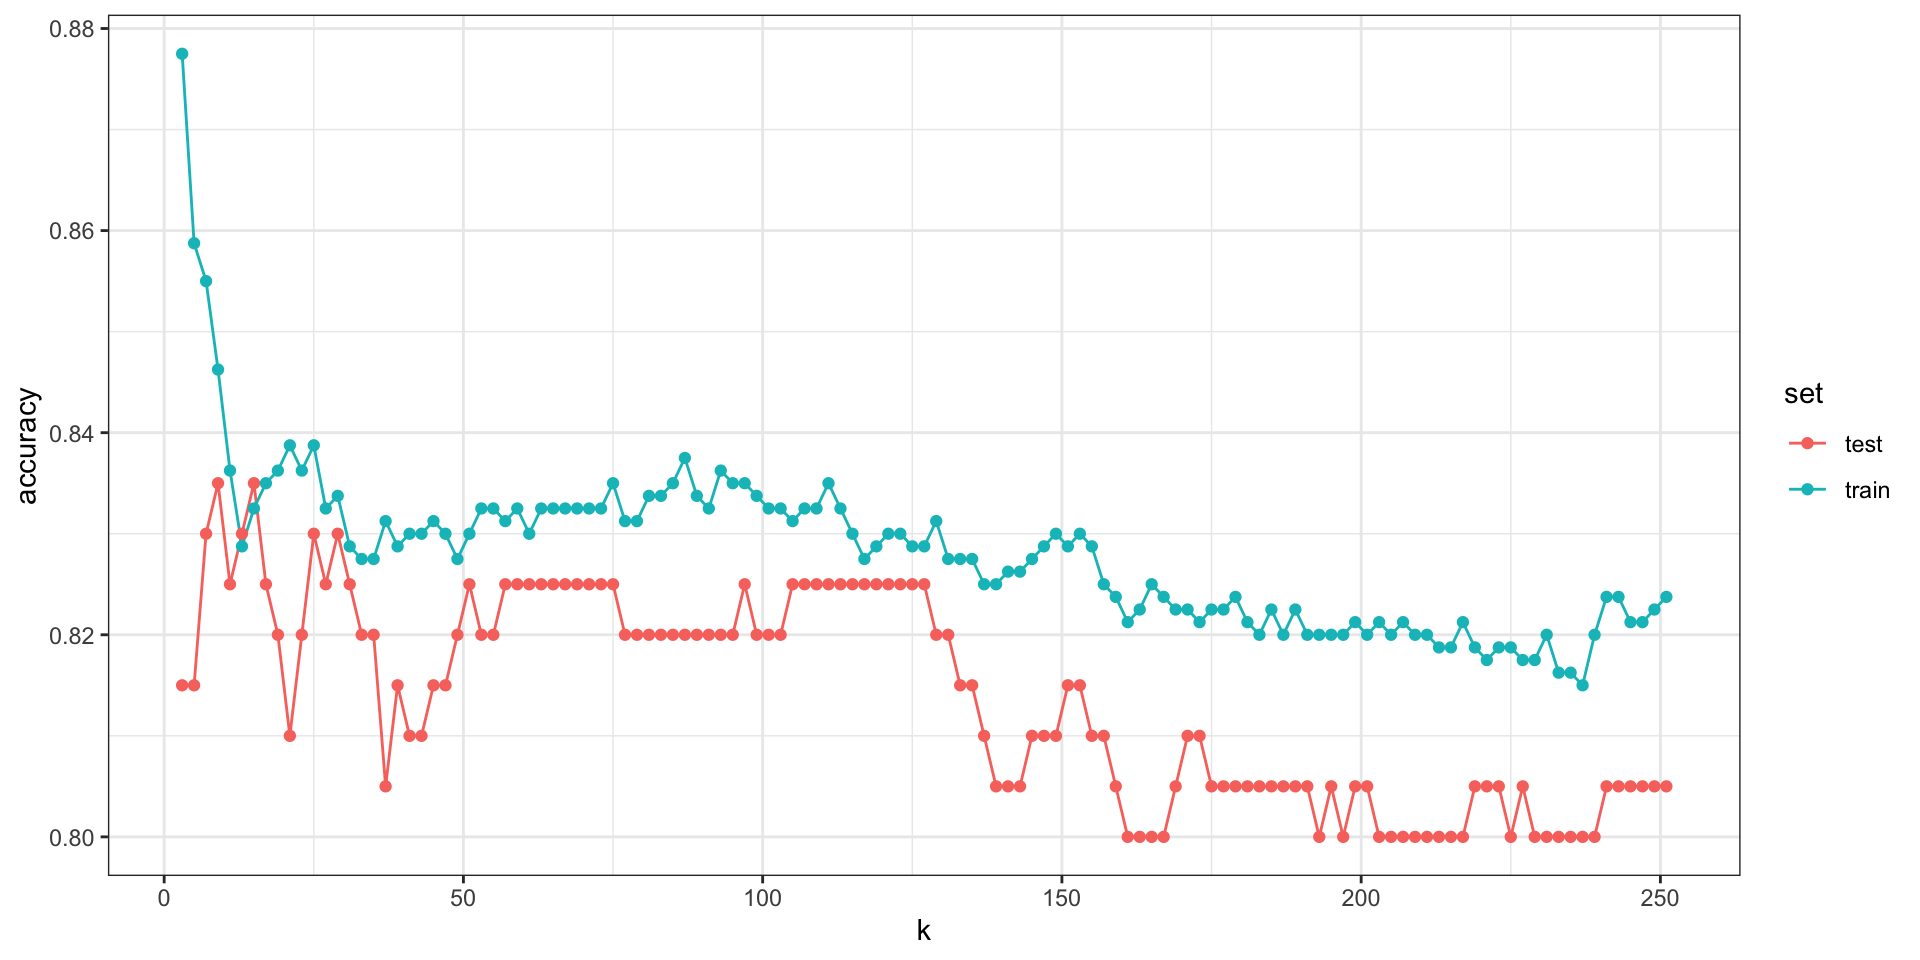
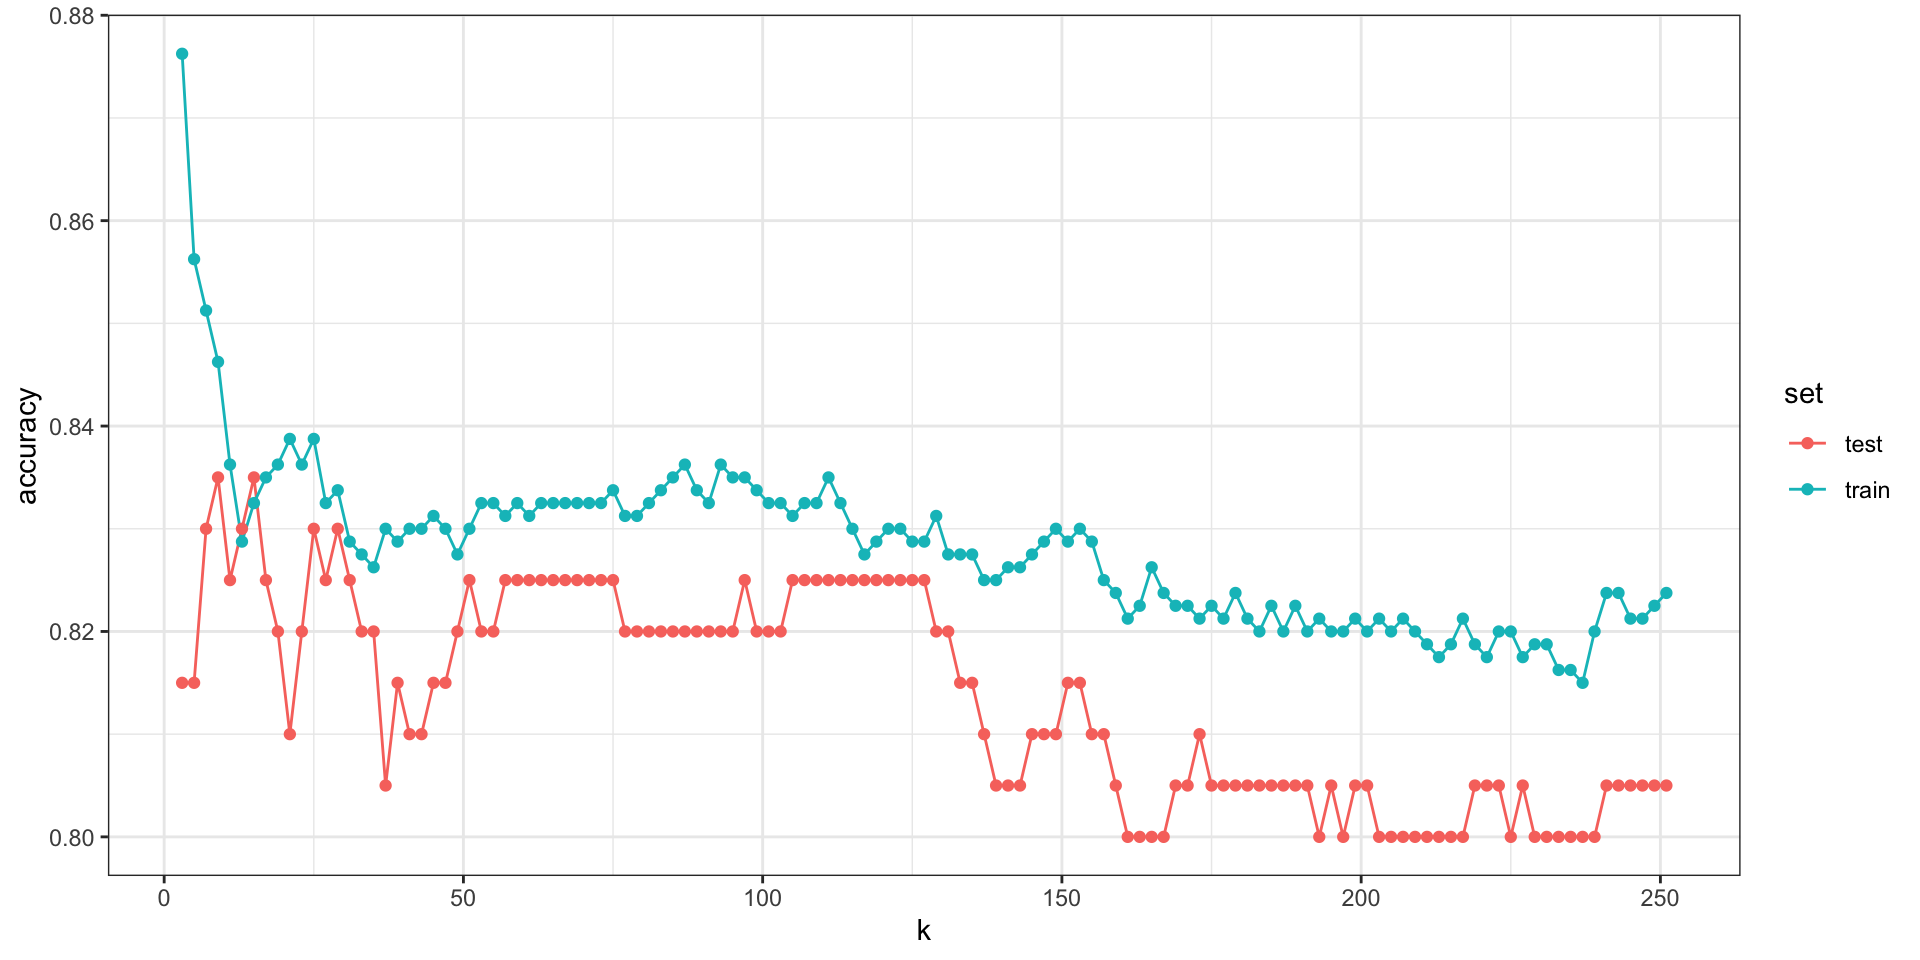
ml-slides

diff --git a/docs/slides.html b/docs/slides.html
@@ -640,6 +640,105 @@ Date
 <span class="listing-date">Tue, Mar 18</span>
 </td>
 </tr>
+<tr data-index="36" data-listing-date-sort="1742443200000" data-listing-file-modified-sort="1742424981656" data-listing-date-modified-sort="NaN" data-listing-reading-time-sort="5" data-listing-word-count-sort="860" data-listing-title-sort="Introduction" data-listing-filename-sort="36-intro-ml.qmd">
+<td>
+<span class="listing-keywords">Machine Learning</span>
+</td>
+<td>
+<a href="./slides/ml/36-intro-ml.html" class="title listing-title">Introduction</a>
+</td>
+<td>
+<span class="listing-date">Thu, Mar 20</span>
+</td>
+</tr>
+<tr data-index="37" data-listing-date-sort="1742443200000" data-listing-file-modified-sort="1742424997917" data-listing-date-modified-sort="NaN" data-listing-reading-time-sort="12" data-listing-word-count-sort="2213" data-listing-title-sort="Evaluation Metrics" data-listing-filename-sort="37-evaluation-metrics.qmd">
+<td>
+<span class="listing-keywords">Machine Learning</span>
+</td>
+<td>
+<a href="./slides/ml/37-evaluation-metrics.html" class="title listing-title">Evaluation Metrics</a>
+</td>
+<td>
+<span class="listing-date">Thu, Mar 20</span>
+</td>
+</tr>
+<tr data-index="38" data-listing-date-sort="1742443200000" data-listing-file-modified-sort="1742425008915" data-listing-date-modified-sort="NaN" data-listing-reading-time-sort="3" data-listing-word-count-sort="510" data-listing-title-sort="Conditionals" data-listing-filename-sort="38-conditionals.qmd">
+<td>
+<span class="listing-keywords">Machine Learning</span>
+</td>
+<td>
+<a href="./slides/ml/38-conditionals.html" class="title listing-title">Conditionals</a>
+</td>
+<td>
+<span class="listing-date">Thu, Mar 20</span>
+</td>
+</tr>
+<tr data-index="39" data-listing-date-sort="1742443200000" data-listing-file-modified-sort="1742425013818" data-listing-date-modified-sort="NaN" data-listing-reading-time-sort="22" data-listing-word-count-sort="4324" data-listing-title-sort="Smoothing" data-listing-filename-sort="39-smoothing.qmd">
+<td>
+<span class="listing-keywords">Machine Learning</span>
+</td>
+<td>
+<a href="./slides/ml/39-smoothing.html" class="title listing-title">Smoothing</a>
+</td>
+<td>
+<span class="listing-date">Thu, Mar 20</span>
+</td>
+</tr>
+<tr data-index="40" data-listing-date-sort="1742875200000" data-listing-file-modified-sort="1742425025137" data-listing-date-modified-sort="NaN" data-listing-reading-time-sort="6" data-listing-word-count-sort="1136" data-listing-title-sort="k-nearest neighbors (knn)" data-listing-filename-sort="40-knn.qmd">
+<td>
+<span class="listing-keywords">Machine Learning</span>
+</td>
+<td>
+<a href="./slides/ml/40-knn.html" class="title listing-title">k-nearest neighbors (knn)</a>
+</td>
+<td>
+<span class="listing-date">Tue, Mar 25</span>
+</td>
+</tr>
+<tr data-index="41" data-listing-date-sort="1742875200000" data-listing-file-modified-sort="1742425030387" data-listing-date-modified-sort="NaN" data-listing-reading-time-sort="6" data-listing-word-count-sort="1116" data-listing-title-sort="Resampling Methods" data-listing-filename-sort="41-resampling-methods.qmd">
+<td>
+<span class="listing-keywords">Machine Learning</span>
+</td>
+<td>
+<a href="./slides/ml/41-resampling-methods.html" class="title listing-title">Resampling Methods</a>
+</td>
+<td>
+<span class="listing-date">Tue, Mar 25</span>
+</td>
+</tr>
+<tr data-index="42" data-listing-date-sort="1742875200000" data-listing-file-modified-sort="1742425050395" data-listing-date-modified-sort="NaN" data-listing-reading-time-sort="9" data-listing-word-count-sort="1635" data-listing-title-sort="The caret package" data-listing-filename-sort="42-caret.qmd">
+<td>
+<span class="listing-keywords">Machine Learning</span>
+</td>
+<td>
+<a href="./slides/ml/42-caret.html" class="title listing-title">The caret package</a>
+</td>
+<td>
+<span class="listing-date">Tue, Mar 25</span>
+</td>
+</tr>
+<tr data-index="43" data-listing-date-sort="1743048000000" data-listing-file-modified-sort="1742425066719" data-listing-date-modified-sort="NaN" data-listing-reading-time-sort="14" data-listing-word-count-sort="2692" data-listing-title-sort="Algorithms" data-listing-filename-sort="43-algorithms.qmd">
+<td>
+<span class="listing-keywords">Machine Learning</span>
+</td>
+<td>
+<a href="./slides/ml/43-algorithms.html" class="title listing-title">Algorithms</a>
+</td>
+<td>
+<span class="listing-date">Thu, Mar 27</span>
+</td>
+</tr>
+<tr data-index="44" data-listing-date-sort="1743048000000" data-listing-file-modified-sort="1742425316463" data-listing-date-modified-sort="NaN" data-listing-reading-time-sort="10" data-listing-word-count-sort="1838" data-listing-title-sort="ML In Practice" data-listing-filename-sort="44-ml-in-practice.qmd">
+<td>
+<span class="listing-keywords">Machine Learning</span>
+</td>
+<td>
+<a href="./slides/ml/44-ml-in-practice.html" class="title listing-title">ML In Practice</a>
+</td>
+<td>
+<span class="listing-date">Thu, Mar 27</span>
+</td>
+</tr>
 </tbody>
 </table>
 <div class="listing-no-matching d-none">
@@ -650,7 +749,6 @@ No matching items
 </nav>
 </div>
 <!-- 
-      - slides/ml/*.qmd
       - slides/other-topics/*.qmd -->
 
 

diff --git a/docs/index.html b/docs/index.html
@@ -292,14 +292,24 @@ ul.task-list li input[type="checkbox"] {
 <td style="text-align: left;"><a href="./slides/highdim/34-distance.html">Distance</a>, <a href="./slides/highdim/35-dimension-reduction.html">Dimension reduction</a></td>
 <td style="text-align: left;"><a href="https://rafalab.dfci.harvard.edu/dsbook-part-2/highdim/dimension-reduction.html">Dimension Reduction</a></td>
 </tr>
+<tr class="even">
+<td style="text-align: left;">Mar 20</td>
+<td style="text-align: left;">Machine Learning</td>
+<td style="text-align: left;"><a href="./slides/ml/36-intro-ml.html">Intro</a>, <a href="./slides/ml/37-evaluation-metrics.html">Metrics</a>, <a href="./slides/ml/38-conditionals.html">Conditionals</a>, <a href="./slides/ml/39-smoothing.html">Smoothing</a></td>
+<td style="text-align: left;"><a href="https://rafalab.dfci.harvard.edu/dsbook-part-2/ml/notation-and-terminology.html">Notation and terminology</a>, <a href="https://rafalab.dfci.harvard.edu/dsbook-part-2/ml/evaluation-metrics.html">Evaluation Metrics</a>, <a href="https://rafalab.dfci.harvard.edu/dsbook-part-2/ml/conditionals.html">conditional probabilities</a>, <a href="https://rafalab.dfci.harvard.edu/dsbook-part-2/ml/smoothing.html">smoothing</a></td>
+</tr>
+<tr class="odd">
+<td style="text-align: left;">Mar 25, Mar 27</td>
+<td style="text-align: left;">Machine Learning</td>
+<td style="text-align: left;"><a href="./slides/ml/40-knn.html">kNN</a>, <a href="./slides/ml/41-resampling-methods.html">Resampling methods</a>, <a href="./slides/ml/42-caret.html">caret package</a>, <a href="./slides/ml/43-algorithms.html">Algorithms</a>, <a href="./slides/ml/44-ml-in-practice.html">ML in practice</a></td>
+<td style="text-align: left;"><a href="https://rafalab.dfci.harvard.edu/dsbook-part-2/ml/resampling-methods.html">Resampling methods</a>, <a href="https://rafalab.dfci.harvard.edu/dsbook-part-2/ml/algorithms.html">ML algorithms</a>, <a href="https://rafalab.dfci.harvard.edu/dsbook-part-2/ml/ml-in-practice.html">ML in practice</a></td>
+</tr>
 </tbody>
 </table>
 <!--
 
 
 | Nov 25 | Midterm 2 | | Midterm 2: cover material from Sep 04-Nov 22|
-
-| Dec 04 | Machine Learning | [Intro](slides/ml/36-intro-ml.qmd), [Metrics](slides/ml/37-evaluation-metrics.qmd), [Conditionals](slides/ml/38-conditionals.qmd), [Smoothing](slides/ml/39-smoothing.qmd)|[Notation and terminology](https://rafalab.dfci.harvard.edu/dsbook-part-2/ml/notation-and-terminology.html), [Evaluation Metrics](https://rafalab.dfci.harvard.edu/dsbook-part-2/ml/evaluation-metrics.html), [conditional probabilities](https://rafalab.dfci.harvard.edu/dsbook-part-2/ml/conditionals.html), [smoothing](https://rafalab.dfci.harvard.edu/dsbook-part-2/ml/smoothing.html) |
 |  Dec 09, Dec 11 | Machine Learning | [kNN](slides/ml/40-knn.qmd), [Resampling methods](slides/ml/41-resampling-methods.qmd), [caret package](slides/ml/42-caret.qmd), [Algorithms](slides/ml/43-algorithms.qmd), [ML in practice](slides/ml/44-ml-in-practice.qmd)|[Resampling methods](https://rafalab.dfci.harvard.edu/dsbook-part-2/ml/resampling-methods.html), [ML algorithms](https://rafalab.dfci.harvard.edu/dsbook-part-2/ml/algorithms.html), [ML in practice](https://rafalab.dfci.harvard.edu/dsbook-part-2/ml/ml-in-practice.html) |
 | Dec 16, Dec 18 | Other topics  | [Association is not causation](slides/other-topics/45-association-not-causation.qmd), [Shiny](slides/other-topics/46-shiny.qmd), [Shiny example code](https://github.com/datasciencelabs/2024/tree/main/shiny)| [Association is not causation](https://rafalab.dfci.harvard.edu/dsbook-part-2/linear-models/association-not-causation.html) |
 -->
@@ -393,8 +403,6 @@ ul.task-list li input[type="checkbox"] {
 </tr>
 </tbody>
 </table>
-<!--| Nikhil Vytla   | Wed      2:00-3:00PM     | Kresge 201         |
-| Yuan Wang | Fri    1:00-2:00PM     | [Zoom](https://harvard.zoom.us/j/98901120095?pwd=CrhPTA0Nco2rY6ggzYIfq6kQmP4VZn.1) |-->
 </section>
 <section id="acknowledgments" class="level2">
 <h2 class="anchored" data-anchor-id="acknowledgments">Acknowledgments</h2>

diff --git a/docs/slides/ml/40-knn.html b/docs/slides/ml/40-knn.html
@@ -9,7 +9,7 @@
 <link href="../../site_libs/quarto-html/quarto-syntax-highlighting-dark-8ea72dc5fed832574809a9c94082fbbb.css" rel="stylesheet" id="quarto-text-highlighting-styles"><meta charset="utf-8">
   <meta name="generator" content="quarto-1.6.40">
 
-  <meta name="dcterms.date" content="2024-12-10">
+  <meta name="dcterms.date" content="2025-03-25">
   <meta name="keywords" content="Machine Learning">
   <title>BIOSTAT 620: Introduction to Health Data Science – k-nearest neighbors (knn)</title>
   <meta name="apple-mobile-web-app-capable" content="yes">
@@ -198,7 +198,7 @@
 <div class="quarto-title-authors">
 </div>
 
-  <p class="date">2024-12-10</p>
+  <p class="date">2025-03-25</p>
 </section>
 <section id="motivation" class="slide level2">
 <h2>Motivation</h2>
@@ -324,7 +324,7 @@ p(\mathbf{x}) = \mbox{Pr}(Y = 1 \mid X_1 = x_1 , X_2 = x_2).
 <span id="cb11-2"><a></a>y_hat_knn_1 <span class="ot">&lt;-</span> <span class="fu">predict</span>(knn_fit_1, mnist_27<span class="sc">$</span>train, <span class="at">type =</span> <span class="st">"class"</span>) </span>
 <span id="cb11-3"><a></a><span class="fu">confusionMatrix</span>(y_hat_knn_1, mnist_27<span class="sc">$</span>train<span class="sc">$</span>y)<span class="sc">$</span>overall[[<span class="st">"Accuracy"</span>]] </span></code><button title="Copy to Clipboard" class="code-copy-button"><i class="bi"></i></button></pre></div>
 <div class="cell-output cell-output-stdout">
-<pre><code>[1] 0.995</code></pre>
+<pre><code>[1] 0.993</code></pre>
 </div>
 </div>
 <p>to this:</p>

diff --git a/docs/slides/ml/38-conditionals.html b/docs/slides/ml/38-conditionals.html
@@ -9,8 +9,8 @@
 <link href="../../site_libs/quarto-html/quarto-syntax-highlighting-dark-8ea72dc5fed832574809a9c94082fbbb.css" rel="stylesheet" id="quarto-text-highlighting-styles"><meta charset="utf-8">
   <meta name="generator" content="quarto-1.6.40">
 
-  <meta name="author" content="Rafael A. Irizarry">
-  <meta name="dcterms.date" content="2024-12-04">
+  <meta name="author" content="Dylan Cable">
+  <meta name="dcterms.date" content="2025-03-20">
   <meta name="keywords" content="Machine Learning">
   <title>BIOSTAT 620: Introduction to Health Data Science – Conditionals</title>
   <meta name="apple-mobile-web-app-capable" content="yes">
@@ -134,12 +134,12 @@
 <div class="quarto-title-authors">
 <div class="quarto-title-author">
 <div class="quarto-title-author-name">
-Rafael A. Irizarry 
+Dylan Cable 
 </div>
 </div>
 </div>
 
-  <p class="date">2024-12-04</p>
+  <p class="date">2025-03-20</p>
 </section>
 <section id="conditional-probabilities-and-expectations" class="slide level2">
 <h2>Conditional probabilities and expectations</h2>

diff --git a/docs/slides/ml/44-ml-in-practice.html b/docs/slides/ml/44-ml-in-practice.html
@@ -9,8 +9,8 @@
 <link href="../../site_libs/quarto-html/quarto-syntax-highlighting-dark-8ea72dc5fed832574809a9c94082fbbb.css" rel="stylesheet" id="quarto-text-highlighting-styles"><meta charset="utf-8">
   <meta name="generator" content="quarto-1.6.40">
 
-  <meta name="author" content="Rafael A. Irizarry">
-  <meta name="dcterms.date" content="2024-12-09">
+  <meta name="author" content="Dylan Cable">
+  <meta name="dcterms.date" content="2025-03-27">
   <meta name="keywords" content="Machine Learning">
   <title>BIOSTAT 620: Introduction to Health Data Science – ML In Practice</title>
   <meta name="apple-mobile-web-app-capable" content="yes">
@@ -199,12 +199,12 @@
 <div class="quarto-title-authors">
 <div class="quarto-title-author">
 <div class="quarto-title-author-name">
-Rafael A. Irizarry 
+Dylan Cable 
 </div>
 </div>
 </div>
 
-  <p class="date">2024-12-09</p>
+  <p class="date">2025-03-27</p>
 </section>
 <section id="machine-learning-in-practice" class="slide level2">
 <h2>Machine learning in practice</h2>

diff --git a/docs/slides/ml/36-intro-ml.html b/docs/slides/ml/36-intro-ml.html
@@ -9,8 +9,8 @@
 <link href="../../site_libs/quarto-html/quarto-syntax-highlighting-dark-8ea72dc5fed832574809a9c94082fbbb.css" rel="stylesheet" id="quarto-text-highlighting-styles"><meta charset="utf-8">
   <meta name="generator" content="quarto-1.6.40">
 
-  <meta name="author" content="Rafael A. Irizarry">
-  <meta name="dcterms.date" content="2024-12-02">
+  <meta name="author" content="Dylan Cable">
+  <meta name="dcterms.date" content="2025-03-20">
   <meta name="keywords" content="Machine Learning">
   <title>BIOSTAT 620: Introduction to Health Data Science – Introduction</title>
   <meta name="apple-mobile-web-app-capable" content="yes">
@@ -134,12 +134,12 @@
 <div class="quarto-title-authors">
 <div class="quarto-title-author">
 <div class="quarto-title-author-name">
-Rafael A. Irizarry 
+Dylan Cable 
 </div>
 </div>
 </div>
 
-  <p class="date">2024-12-02</p>
+  <p class="date">2025-03-20</p>
 </section>
 <section id="machine-learning" class="slide level2">
 <h2>Machine Learning</h2>

diff --git a/docs/slides/ml/41-resampling-methods.html b/docs/slides/ml/41-resampling-methods.html
@@ -9,7 +9,7 @@
 <link href="../../site_libs/quarto-html/quarto-syntax-highlighting-dark-8ea72dc5fed832574809a9c94082fbbb.css" rel="stylesheet" id="quarto-text-highlighting-styles"><meta charset="utf-8">
   <meta name="generator" content="quarto-1.6.40">
 
-  <meta name="dcterms.date" content="2024-12-09">
+  <meta name="dcterms.date" content="2025-03-25">
   <meta name="keywords" content="Machine Learning">
   <title>BIOSTAT 620: Introduction to Health Data Science – Resampling Methods</title>
   <meta name="apple-mobile-web-app-capable" content="yes">
@@ -133,7 +133,7 @@
 <div class="quarto-title-authors">
 </div>
 
-  <p class="date">2024-12-09</p>
+  <p class="date">2025-03-25</p>
 </section>
 <section id="resampling-methods-math" class="slide level2">
 <h2>Resampling methods math</h2>

diff --git a/docs/slides/ml/37-evaluation-metrics.html b/docs/slides/ml/37-evaluation-metrics.html
@@ -9,7 +9,7 @@
 <link href="../../site_libs/quarto-html/quarto-syntax-highlighting-dark-8ea72dc5fed832574809a9c94082fbbb.css" rel="stylesheet" id="quarto-text-highlighting-styles"><meta charset="utf-8">
   <meta name="generator" content="quarto-1.6.40">
 
-  <meta name="dcterms.date" content="2024-12-04">
+  <meta name="dcterms.date" content="2025-03-20">
   <meta name="keywords" content="Machine Learning">
   <title>BIOSTAT 620: Introduction to Health Data Science – Evaluation Metrics</title>
   <meta name="apple-mobile-web-app-capable" content="yes">
@@ -200,7 +200,7 @@
 <div class="quarto-title-authors">
 </div>
 
-  <p class="date">2024-12-04</p>
+  <p class="date">2025-03-20</p>
 </section>
 <section id="evaluation-metrics" class="slide level2">
 <h2>Evaluation metrics</h2>

diff --git a/docs/slides/ml/43-algorithms.html b/docs/slides/ml/43-algorithms.html
@@ -9,7 +9,7 @@
 <link href="../../site_libs/quarto-html/quarto-syntax-highlighting-dark-8ea72dc5fed832574809a9c94082fbbb.css" rel="stylesheet" id="quarto-text-highlighting-styles"><meta charset="utf-8">
   <meta name="generator" content="quarto-1.6.40">
 
-  <meta name="dcterms.date" content="2024-12-11">
+  <meta name="dcterms.date" content="2025-03-27">
   <meta name="keywords" content="Machine Learning">
   <title>BIOSTAT 620: Introduction to Health Data Science – Algorithms</title>
   <meta name="apple-mobile-web-app-capable" content="yes">
@@ -198,7 +198,7 @@
 <div class="quarto-title-authors">
 </div>
 
-  <p class="date">2024-12-11</p>
+  <p class="date">2025-03-27</p>
 </section>
 <section id="examples-of-algorithms" class="slide level2">
 <h2>Examples of algorithms</h2>

diff --git a/docs/slides/ml/42-caret.html b/docs/slides/ml/42-caret.html
@@ -9,7 +9,7 @@
 <link href="../../site_libs/quarto-html/quarto-syntax-highlighting-dark-8ea72dc5fed832574809a9c94082fbbb.css" rel="stylesheet" id="quarto-text-highlighting-styles"><meta charset="utf-8">
   <meta name="generator" content="quarto-1.6.40">
 
-  <meta name="dcterms.date" content="2024-12-09">
+  <meta name="dcterms.date" content="2025-03-25">
   <meta name="keywords" content="Machine Learning">
   <title>BIOSTAT 620: Introduction to Health Data Science – The caret package</title>
   <meta name="apple-mobile-web-app-capable" content="yes">
@@ -198,7 +198,7 @@
 <div class="quarto-title-authors">
 </div>
 
-  <p class="date">2024-12-09</p>
+  <p class="date">2025-03-25</p>
 </section>
 <section id="the-caret-package" class="slide level2">
 <h2>The caret package</h2>

diff --git a/docs/slides/ml/39-smoothing.html b/docs/slides/ml/39-smoothing.html
@@ -9,7 +9,7 @@
 <link href="../../site_libs/quarto-html/quarto-syntax-highlighting-dark-8ea72dc5fed832574809a9c94082fbbb.css" rel="stylesheet" id="quarto-text-highlighting-styles"><meta charset="utf-8">
   <meta name="generator" content="quarto-1.6.40">
 
-  <meta name="dcterms.date" content="2024-12-04">
+  <meta name="dcterms.date" content="2025-03-20">
   <meta name="keywords" content="Machine Learning">
   <title>BIOSTAT 620: Introduction to Health Data Science – Smoothing</title>
   <meta name="apple-mobile-web-app-capable" content="yes">
@@ -198,7 +198,7 @@
 <div class="quarto-title-authors">
 </div>
 
-  <p class="date">2024-12-04</p>
+  <p class="date">2025-03-20</p>
 </section>
 <section id="smoothing" class="slide level2">
 <h2>Smoothing</h2>

diff --git a/docs/syllabus.html b/docs/syllabus.html
@@ -356,22 +356,26 @@ ul.task-list li input[type="checkbox"] {
 <td>Pset 7 due</td>
 </tr>
 <tr class="even">
+<td>Mar 25</td>
+<td>Pset 8 due</td>
+</tr>
+<tr class="odd">
 <td>Apr 01</td>
 <td>Midterm 2: cover material from Jan 09-Mar 27</td>
 </tr>
-<tr class="odd">
+<tr class="even">
 <td>Apr 17</td>
 <td>Final project presentations day 1</td>
 </tr>
-<tr class="even">
+<tr class="odd">
 <td>Apr 22</td>
 <td>Final project presentations day 2</td>
 </tr>
-<tr class="odd">
+<tr class="even">
 <td>Apr 22</td>
 <td>Last day of class</td>
 </tr>
-<tr class="even">
+<tr class="odd">
 <td>Apr 24</td>
 <td>Final Project due</td>
 </tr>
